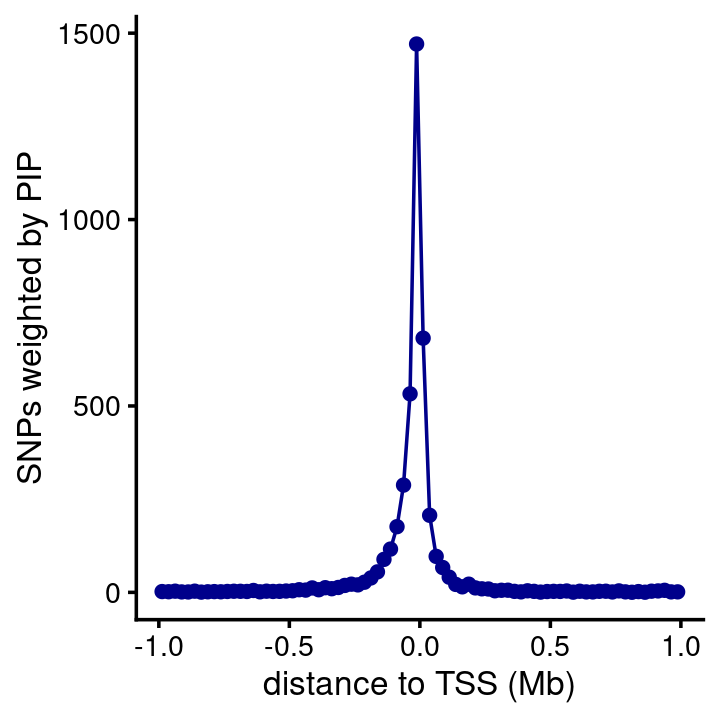
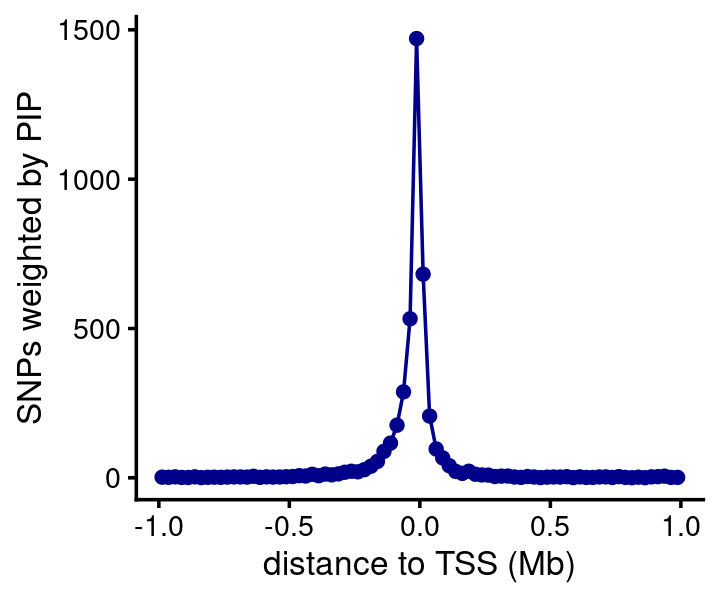
Build site.

diff --git a/docs/rosmap.html b/docs/rosmap.html
@@ -301,7 +301,7 @@ class="glyphicon glyphicon-ok text-success" aria-hidden="true"></span>
 <div class="tab-content">
 <div id="summary" class="tab-pane fade in active">
 <p>
-<strong>Last updated:</strong> 2024-06-20
+<strong>Last updated:</strong> 2024-07-08
 </p>
 <p>
 <strong>Checks:</strong> <span
@@ -433,15 +433,15 @@ project makes it easier to run your code on other machines.</p>
 <div class="panel panel-default">
 <div class="panel-heading">
 <p class="panel-title">
-<a data-toggle="collapse" data-parent="#workflowr-checks" href="#strongRepositoryversionstrongahrefhttpsgithubcomstephenslabfsusieexperimentstree73e153f602d9e2679e8c5da39bf840f26e4eff06targetblank73e153fa">
+<a data-toggle="collapse" data-parent="#workflowr-checks" href="#strongRepositoryversionstrongahrefhttpsgithubcomstephenslabfsusieexperimentstreec82bdacdc77c7063195ec1cb7fbecc27b4be4d74targetblankc82bdaca">
 <span class="glyphicon glyphicon-ok text-success"
 aria-hidden="true"></span> <strong>Repository version:</strong>
-<a href="https://github.com/stephenslab/fsusie-experiments/tree/73e153f602d9e2679e8c5da39bf840f26e4eff06" target="_blank">73e153f</a>
+<a href="https://github.com/stephenslab/fsusie-experiments/tree/c82bdacdc77c7063195ec1cb7fbecc27b4be4d74" target="_blank">c82bdac</a>
 </a>
 </p>
 </div>
 <div
[2 lines of base64/hex data omitted]
 class="panel-collapse collapse">
 <div class="panel-body">
 <p>
@@ -451,7 +451,7 @@ reproducibility.
 </p>
 <p>
 The results in this page were generated with repository version
-<a href="https://github.com/stephenslab/fsusie-experiments/tree/73e153f602d9e2679e8c5da39bf840f26e4eff06" target="_blank">73e153f</a>.
+<a href="https://github.com/stephenslab/fsusie-experiments/tree/c82bdacdc77c7063195ec1cb7fbecc27b4be4d74" target="_blank">c82bdac</a>.
 See the <em>Past versions</em> tab to see a history of the changes made
 to the R Markdown and HTML files.
 </p>
@@ -509,6 +509,93 @@ Message
 </tr>
 </thead>
 <tbody>
+<tr>
+<td>
+Rmd
+</td>
+<td>
+<a href="https://github.com/stephenslab/fsusie-experiments/blob/c82bdacdc77c7063195ec1cb7fbecc27b4be4d74/analysis/rosmap.Rmd" target="_blank">c82bdac</a>
+</td>
+<td>
+Peter Carbonetto
+</td>
+<td>
+2024-07-08
+</td>
+<td>
+Added steps to the rosmap analysis (rosmap.Rmd) to put together a table
+of high-confidence SNPs that overlap among the three molecular traits.
+</td>
+</tr>
+<tr>
+<td>
+Rmd
+</td>
+<td>
+<a href="https://github.com/stephenslab/fsusie-experiments/blob/30b56869fb7071c48b7c9f9cfde8b6bc7ff5022c/analysis/rosmap.Rmd" target="_blank">30b5686</a>
+</td>
+<td>
+Peter Carbonetto
+</td>
+<td>
+2024-06-20
+</td>
+<td>
+Added distance-to-TSS analysis for HA SNPs.
+</td>
+</tr>
+<tr>
+<td>
+Rmd
+</td>
+<td>
+<a href="https://github.com/stephenslab/fsusie-experiments/blob/c6ed6b5a297d46828dfef9c2f690eb8cfa178e81/analysis/rosmap.Rmd" target="_blank">c6ed6b5</a>
+</td>
+<td>
+Peter Carbonetto
+</td>
+<td>
+2024-06-20
+</td>
+<td>
+Implemented function compute_weighted_distance_to_tss_nogene for the
+analysis of the rosmap results.
+</td>
+</tr>
+<tr>
+<td>
+Rmd
+</td>
+<td>
+<a href="https://github.com/stephenslab/fsusie-experiments/blob/3dd6c5afcfa1e2dab77539127122442154217b90/analysis/rosmap.Rmd" target="_blank">3dd6c5a</a>
+</td>
+<td>
+Peter Carbonetto
+</td>
+<td>
+2024-06-20
+</td>
+<td>
+Small edit to rosmap.Rmd.
+</td>
+</tr>
+<tr>
+<td>
+html
+</td>
+<td>
+<a href="https://rawcdn.githack.com/stephenslab/fsusie-experiments/0e7ea2e95b202f52b73dd1011088b681757c2b49/docs/rosmap.html" target="_blank">0e7ea2e</a>
+</td>
+<td>
+Peter Carbonetto
+</td>
+<td>
+2024-06-20
+</td>
+<td>
+Build site.
+</td>
+</tr>
 <tr>
 <td>
 Rmd
@@ -1417,6 +1504,17 @@ Date
 <tbody>
 <tr>
 <td>
+<a href="https://github.com/stephenslab/fsusie-experiments/blob/0e7ea2e95b202f52b73dd1011088b681757c2b49/docs/figure/rosmap.Rmd/dist-to-tss-1.png" target="_blank">0e7ea2e</a>
+</td>
+<td>
+Peter Carbonetto
+</td>
+<td>
+2024-06-20
+</td>
+</tr>
+<tr>
+<td>
 <a href="https://github.com/stephenslab/fsusie-experiments/blob/b25a0afaaff094df0e73a387ec9595a326827463/docs/figure/rosmap.Rmd/dist-to-tss-1.png" target="_blank">b25a0af</a>
 </td>
 <td>
@@ -1587,11 +1685,30 @@ Peter Carbonetto
 </table>
 </div>
 </div>
+<p>The HA SNPs are strongly concentrated near gene TSSs. I couldn’t find
+any hard data showing a similar result, although this seems to be
+suggested by the <a
+href="https://doi.org/10.1126/science.1242429">McVicker et al (2013)
+paper</a>.</p>
+<pre class="r"><code>bin_size &lt;- 25000
+bins   &lt;- c(-Inf,seq(-2e6,2e6,bin_size),Inf)
+counts &lt;- compute_weighted_distance_to_tss_nogene(fsusie_haqtl$cs,genes,bins)
+n      &lt;- length(bins)
+bins   &lt;- bins[seq(2,n-2)]
+counts &lt;- counts[seq(2,n-2)]
+pdat &lt;- data.frame(pos = (bins + bin_size/2)/1e6,count = counts)
+ggplot(pdat,aes(x = pos,y = count)) +
+  geom_point(color = &quot;darkblue&quot;) +
+  geom_line(color = &quot;darkblue&quot;) +
+  labs(x = &quot;distance to TSS (Mb)&quot;,
+       y = &quot;SNPs weighted by PIP&quot;) +
+  theme_cowplot(font_size = 10)</code></pre>
+<p><img src="figure/rosmap.Rmd/dist-to-tss-haqtl-1.png" width="360" style="display: block; margin: auto;" /></p>
 </div>
 <div id="fsusie-fine-mapping-of-mqtls" class="section level2">
 <h2>fSuSiE fine-mapping of mQTLs</h2>
-<p>Now let’s examine the fSuSie methylation fine-mapping results. The
-regions are similar (but not exactly the same) to the fSuSiE analyses of
+<p>Now let’s examine the fSuSiE methylation fine-mapping results. The
+regions are similar (but not exactly the same) as the fSuSiE analyses of
 HA:</p>
 <pre class="r"><code>p1 &lt;- region_sizes_histogram(fsusie_mqtl$regions,fsusie_mqtl$pips,
                              max_mb = 10)
@@ -1743,28 +1860,79 @@ Peter Carbonetto
 </table>
 </div>
 </div>
+<p>The methylation SNPs are also strongly concentrated near the gene
+TSSs, in agreement with Fig. 3 of <a
+href="https://doi.org/10.1038/nn.4632">Ng et al 2017</a> (noting that
+our result is more convincing because we actually fine-mapped the SNPs,
+whereas Ng et al simply chose the top SNP in each region).</p>
+<pre class="r"><code>bin_size &lt;- 25000
+bins   &lt;- c(-Inf,seq(-2e6,2e6,bin_size),Inf)
+counts &lt;- compute_weighted_distance_to_tss_nogene(fsusie_mqtl$cs,genes,bins)
+n      &lt;- length(bins)
+bins   &lt;- bins[seq(2,n-2)]
+counts &lt;- counts[seq(2,n-2)]
+pdat &lt;- data.frame(pos = (bins + bin_size/2)/1e6,count = counts)
+ggplot(pdat,aes(x = pos,y = count)) +
+  geom_point(color = &quot;darkblue&quot;) +
+  geom_line(color = &quot;darkblue&quot;) +
+  labs(x = &quot;distance to TSS (Mb)&quot;,
+       y = &quot;SNPs weighted by PIP&quot;) +
+  theme_cowplot(font_size = 10)</code></pre>
+<p><img src="figure/rosmap.Rmd/dist-to-tss-mqtl-1.png" width="360" style="display: block; margin: auto;" /></p>
 </div>
 <div
 id="examine-overlap-among-expression-methylation-and-histone-acetylation-snps"
 class="section level2">
 <h2>Examine overlap among expression, methylation and histone
 acetylation SNPs</h2>
-<p>TO DO: Determine overlap between expression, methylation and histone
-acetylation SNPs simply by extracting the SNPs with PIP &gt; 0.75 that
-are also in CSs.</p>
-<pre class="r"><code>highconf_susie &lt;- get_highconf_snps(susie$pips,level = 0.6)
-highconf_mqtl  &lt;- get_highconf_snps(fsusie_mqtl$pips,level = 0.6)
-highconf_haqtl &lt;- get_highconf_snps(fsusie_haqtl$pips,level = 0.6)
+<p>Let’s now examine overlap between expression, methylation and histone
+acetylation SNPs simply by extracting the SNPs with PIP &gt; 0.5 that
+are also in a CS.</p>
+<pre class="r"><code>highconf_susie &lt;- get_highconf_snps(susie$pips,level = 0.5)
+highconf_haqtl &lt;- get_highconf_snps(fsusie_haqtl$pips,level = 0.5)
+highconf_mqtl  &lt;- get_highconf_snps(fsusie_mqtl$pips,level = 0.5)
 ids &lt;- unique(c(highconf_susie$id,highconf_mqtl$id,highconf_haqtl$id))
 dat &lt;- data.frame(id = ids,
                   eqtl  = is.element(ids,highconf_susie$id),
-                  mqtl  = is.element(ids,highconf_mqtl$id),
-                  haqtl = is.element(ids,highconf_haqtl$id))
-table(dat[c(&quot;eqtl&quot;,&quot;mqtl&quot;)])
-table(dat[c(&quot;eqtl&quot;,&quot;haqtl&quot;)])
-table(dat[c(&quot;mqtl&quot;,&quot;haqtl&quot;)])</code></pre>
-<p>TO DO NEXT: Put together a data frame containing more information
-about these high-confidence, overlapping SNPs.</p>
+                  haqtl = is.element(ids,highconf_haqtl$id),
+                  mqtl  = is.element(ids,highconf_mqtl$id))
+table(dat[c(&quot;haqtl&quot;,&quot;mqtl&quot;,&quot;eqtl&quot;)])
+# , , eqtl = FALSE
+# 
+#        mqtl
+# haqtl   FALSE  TRUE
+#   FALSE     0 11668
+#   TRUE   4155   100
+# 
+# , , eqtl = TRUE
+# 
+#        mqtl
+# haqtl   FALSE  TRUE
+#   FALSE  2085    29
+#   TRUE     11     4</code></pre>
+<p>Put this information together into a table, and save this as a CSV
+file for later use.</p>
+<pre class="r"><code>dat &lt;- subset(dat,eqtl + haqtl + mqtl &gt; 1)
+ids &lt;- dat$id
+highconf_susie &lt;- subset(highconf_susie,is.element(id,ids))
+highconf_haqtl &lt;- subset(highconf_haqtl,is.element(id,ids))
+highconf_mqtl  &lt;- subset(highconf_mqtl,is.element(id,ids))
+highconf_overlap &lt;- merge(highconf_susie,highconf_haqtl,by = &quot;id&quot;,all = TRUE)
+highconf_overlap &lt;- merge(highconf_overlap,highconf_mqtl,by = &quot;id&quot;,all = TRUE)
+names(highconf_overlap) &lt;-
+  c(&quot;id&quot;,&quot;region_eqtl&quot;,&quot;pos_eqtl&quot;,&quot;pip_eqtl&quot;,&quot;region_haqtl&quot;,&quot;pos_haqtl&quot;,
+    &quot;pip_haqtl&quot;,&quot;region_mqtl&quot;,&quot;pos_mqtl&quot;,&quot;pip_mqtl&quot;)
+highconf_overlap$chr &lt;- get_chr_from_id(highconf_overlap$id)
+highconf_overlap$pos &lt;- get_pos_from_id(highconf_overlap$id)
+highconf_overlap &lt;-
+  highconf_overlap[c(&quot;id&quot;,&quot;chr&quot;,&quot;pos&quot;,&quot;region_eqtl&quot;,&quot;region_haqtl&quot;,
+                     &quot;region_mqtl&quot;,&quot;pip_eqtl&quot;,&quot;pip_haqtl&quot;,&quot;pip_mqtl&quot;)]  
+highconf_overlap &lt;- transform(highconf_overlap,
+                              pip_eqtl  = round(pip_eqtl,digits = 4),
+                              pip_haqtl = round(pip_haqtl,digits = 4),
+                              pip_mqtl  = round(pip_mqtl,digits = 4))
+write.csv(highconf_overlap,&quot;rosmap_highconf_overlap.csv&quot;,
+          quote = FALSE,row.names = FALSE)</code></pre>
 <br>
 <p>
 <button type="button" class="btn btn-default btn-workflowr btn-workflowr-sessioninfo" data-toggle="collapse" data-target="#workflowr-sessioninfo" style="display: block;">
